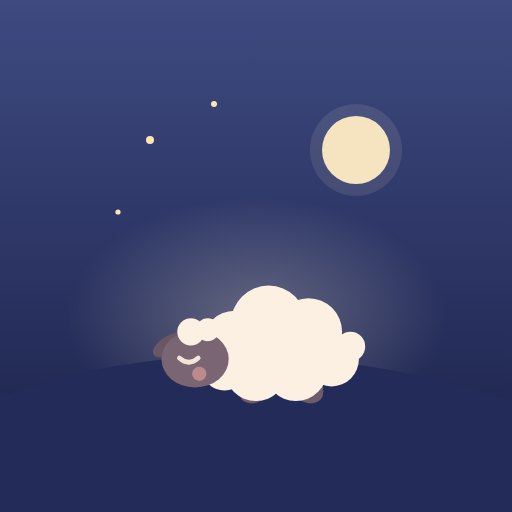
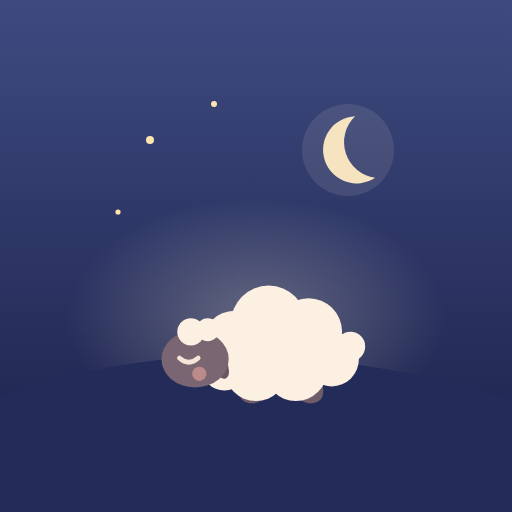
Give the lamb a soft drooping ear and make the moon a crescent
Claude-Session: https://claude.ai/code/session_01EAKTqNLYaTqaS63z5KaeUe

diff --git a/index.html b/index.html
@@ -41,45 +41,14 @@
 <!-- Shared drawings: the same lamb, moon, clouds, stars and hearts on every page -->
 <svg class="defs" aria-hidden="true" focusable="false" width="0" height="0">
   <defs>
-    <symbol id="lamb-body" viewBox="0 0 120 80">
-      <ellipse cx="66" cy="73" rx="46" ry="5" fill="#1B1430" opacity=".14"/>
-      <rect x="52" y="60" width="12" height="12" rx="5" fill="#6E5C6B"/>
-      <rect x="80" y="60" width="12" height="12" rx="5" fill="#6E5C6B"/>
-      <g fill="#FBF0E2">
-        <circle cx="105" cy="45" r="7"/>
-        <circle cx="50" cy="44" r="16"/>
-        <circle cx="66" cy="34" r="18"/>
-        <circle cx="85" cy="38" r="16"/>
-        <circle cx="96" cy="51" r="13"/>
-        <circle cx="79" cy="56" r="15"/>
-        <circle cx="60" cy="56" r="15"/>
-        <circle cx="45" cy="55" r="11"/>
-      </g>
-      <ellipse cx="20" cy="44" rx="10" ry="4.6" transform="rotate(-28 20 44)" fill="#6A5763"/>
-      <ellipse cx="20" cy="44" rx="6" ry="2.2" transform="rotate(-28 20 44)" fill="#E3A9A6" opacity=".7"/>
-      <ellipse cx="31" cy="51" rx="16" ry="13.5" fill="#7A6672"/>
-      <g fill="#FBF0E2">
-        <circle cx="29" cy="38" r="6.5"/>
-        <circle cx="37" cy="37" r="5.5"/>
-      </g>
-      <circle cx="33" cy="58" r="3.4" fill="#F2A7A0" opacity=".55"/>
-      <path d="M17 57.5 q2.4 1.8 4.8 0" fill="none" stroke="#3E2F3E" stroke-width="1.6" stroke-linecap="round"/>
-    </symbol>
-    <symbol id="lamb-sleep" viewBox="0 0 120 80">
-      <use href="#lamb-body"/>
-      <path d="M23.5 50.5 q4.5 4 9 0" fill="none" stroke="#F4E6D6" stroke-width="2.2" stroke-linecap="round"/>
-    </symbol>
-    <symbol id="lamb-awake" viewBox="0 0 120 80">
-      <use href="#lamb-body"/>
-      <circle cx="27.5" cy="50" r="2.6" fill="#2E2433"/>
-      <circle cx="28.4" cy="49.1" r=".9" fill="#FFF7EC"/>
-    </symbol>
     <symbol id="moon" viewBox="-44 -44 88 88">
-      <circle r="43" fill="#FFF1D6" opacity=".09"/>
-      <circle r="36" fill="#FFF1D6" opacity=".08"/>
-      <circle r="29" fill="#F6E4C0"/>
-      <circle cx="-11" cy="-14" r="4" fill="#E6CFA5" opacity=".55"/>
-      <circle cx="13" cy="15" r="3" fill="#E6CFA5" opacity=".5"/>
+      <circle cx="-8" r="40" fill="#FFF1D6" opacity=".07"/>
+      <circle cx="-8" r="31" fill="#FFF1D6" opacity=".07"/>
+      <g transform="rotate(-18)">
+        <path d="M8 -27 A28 28 0 1 0 8 27 A30 30 0 0 1 8 -27 Z" fill="#F6E4C0"/>
+        <circle cx="-18" cy="-6" r="2.6" fill="#E6CFA5" opacity=".55"/>
+        <circle cx="-13" cy="12" r="1.8" fill="#E6CFA5" opacity=".5"/>
+      </g>
     </symbol>
     <symbol id="star" viewBox="-13 -13 26 26">
       <polygon points="0,-10 2.7,-3.72 9.51,-3.09 4.37,1.42 5.88,8.09 0,4.6 -5.88,8.09 -4.37,1.42 -9.51,-3.09 -2.7,-3.72" fill="#FFE6B0" stroke="#FFE6B0" stroke-width="2.6" stroke-linejoin="round"/>

diff --git a/scenes.js b/scenes.js
@@ -40,8 +40,7 @@
             '<g fill="#F3DCE6" opacity=".8"><circle cx="72" cy="46" r="1.5"/><circle cx="86" cy="42" r="1.5"/><circle cx="98" cy="50" r="1.5"/><circle cx="78" cy="58" r="1.5"/><circle cx="92" cy="60" r="1.5"/><circle cx="64" cy="57" r="1.5"/></g>' +
           '</g>' : '') +
         '<g class="l-head">' +
-          '<ellipse cx="16" cy="27" rx="10" ry="4.6" transform="rotate(-28 16 27)" fill="' + ear + '"/>' +
-          '<ellipse cx="16" cy="27" rx="6" ry="2.2" transform="rotate(-28 16 27)" fill="#E3A9A6" opacity=".7"/>' +
+          '<ellipse cx="39" cy="38" rx="8" ry="4" transform="rotate(62 39 38)" style="transform-box:view-box" fill="' + ear + '"/>' +
           '<ellipse cx="27" cy="36" rx="15.5" ry="13.5" fill="' + face + '"/>' +
           '<g fill="' + wool + '"><circle cx="25" cy="23" r="6.5"/><circle cx="33" cy="22" r="5.5"/></g>' +
           '<circle cx="29" cy="43" r="3.4" fill="#F2A7A0" opacity=".55"/>' +
